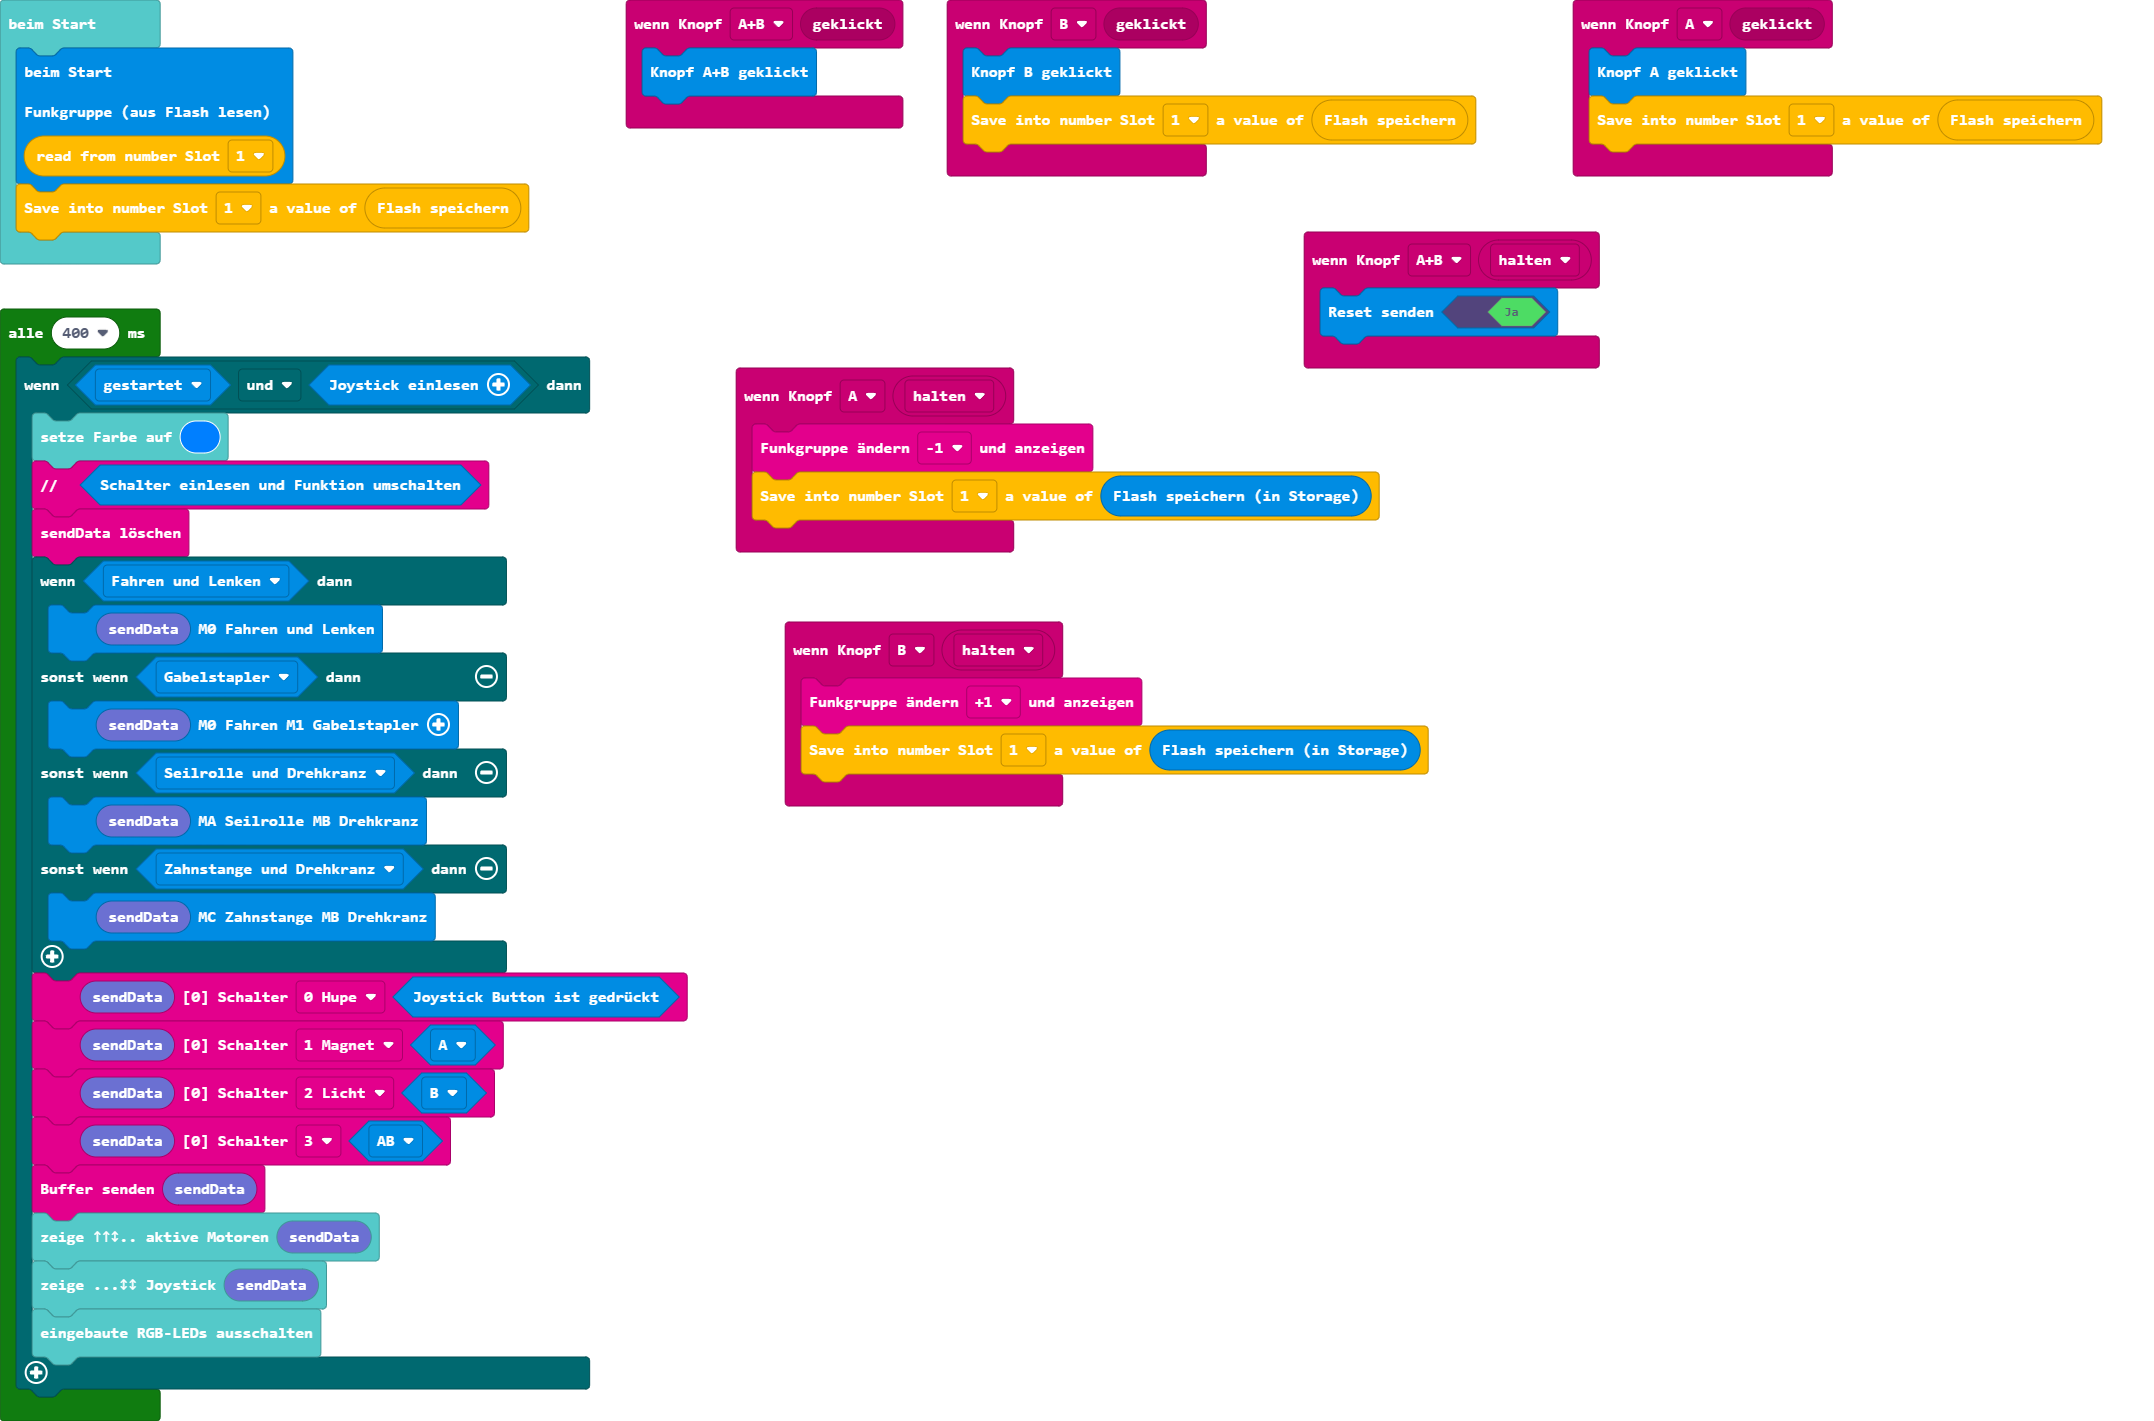
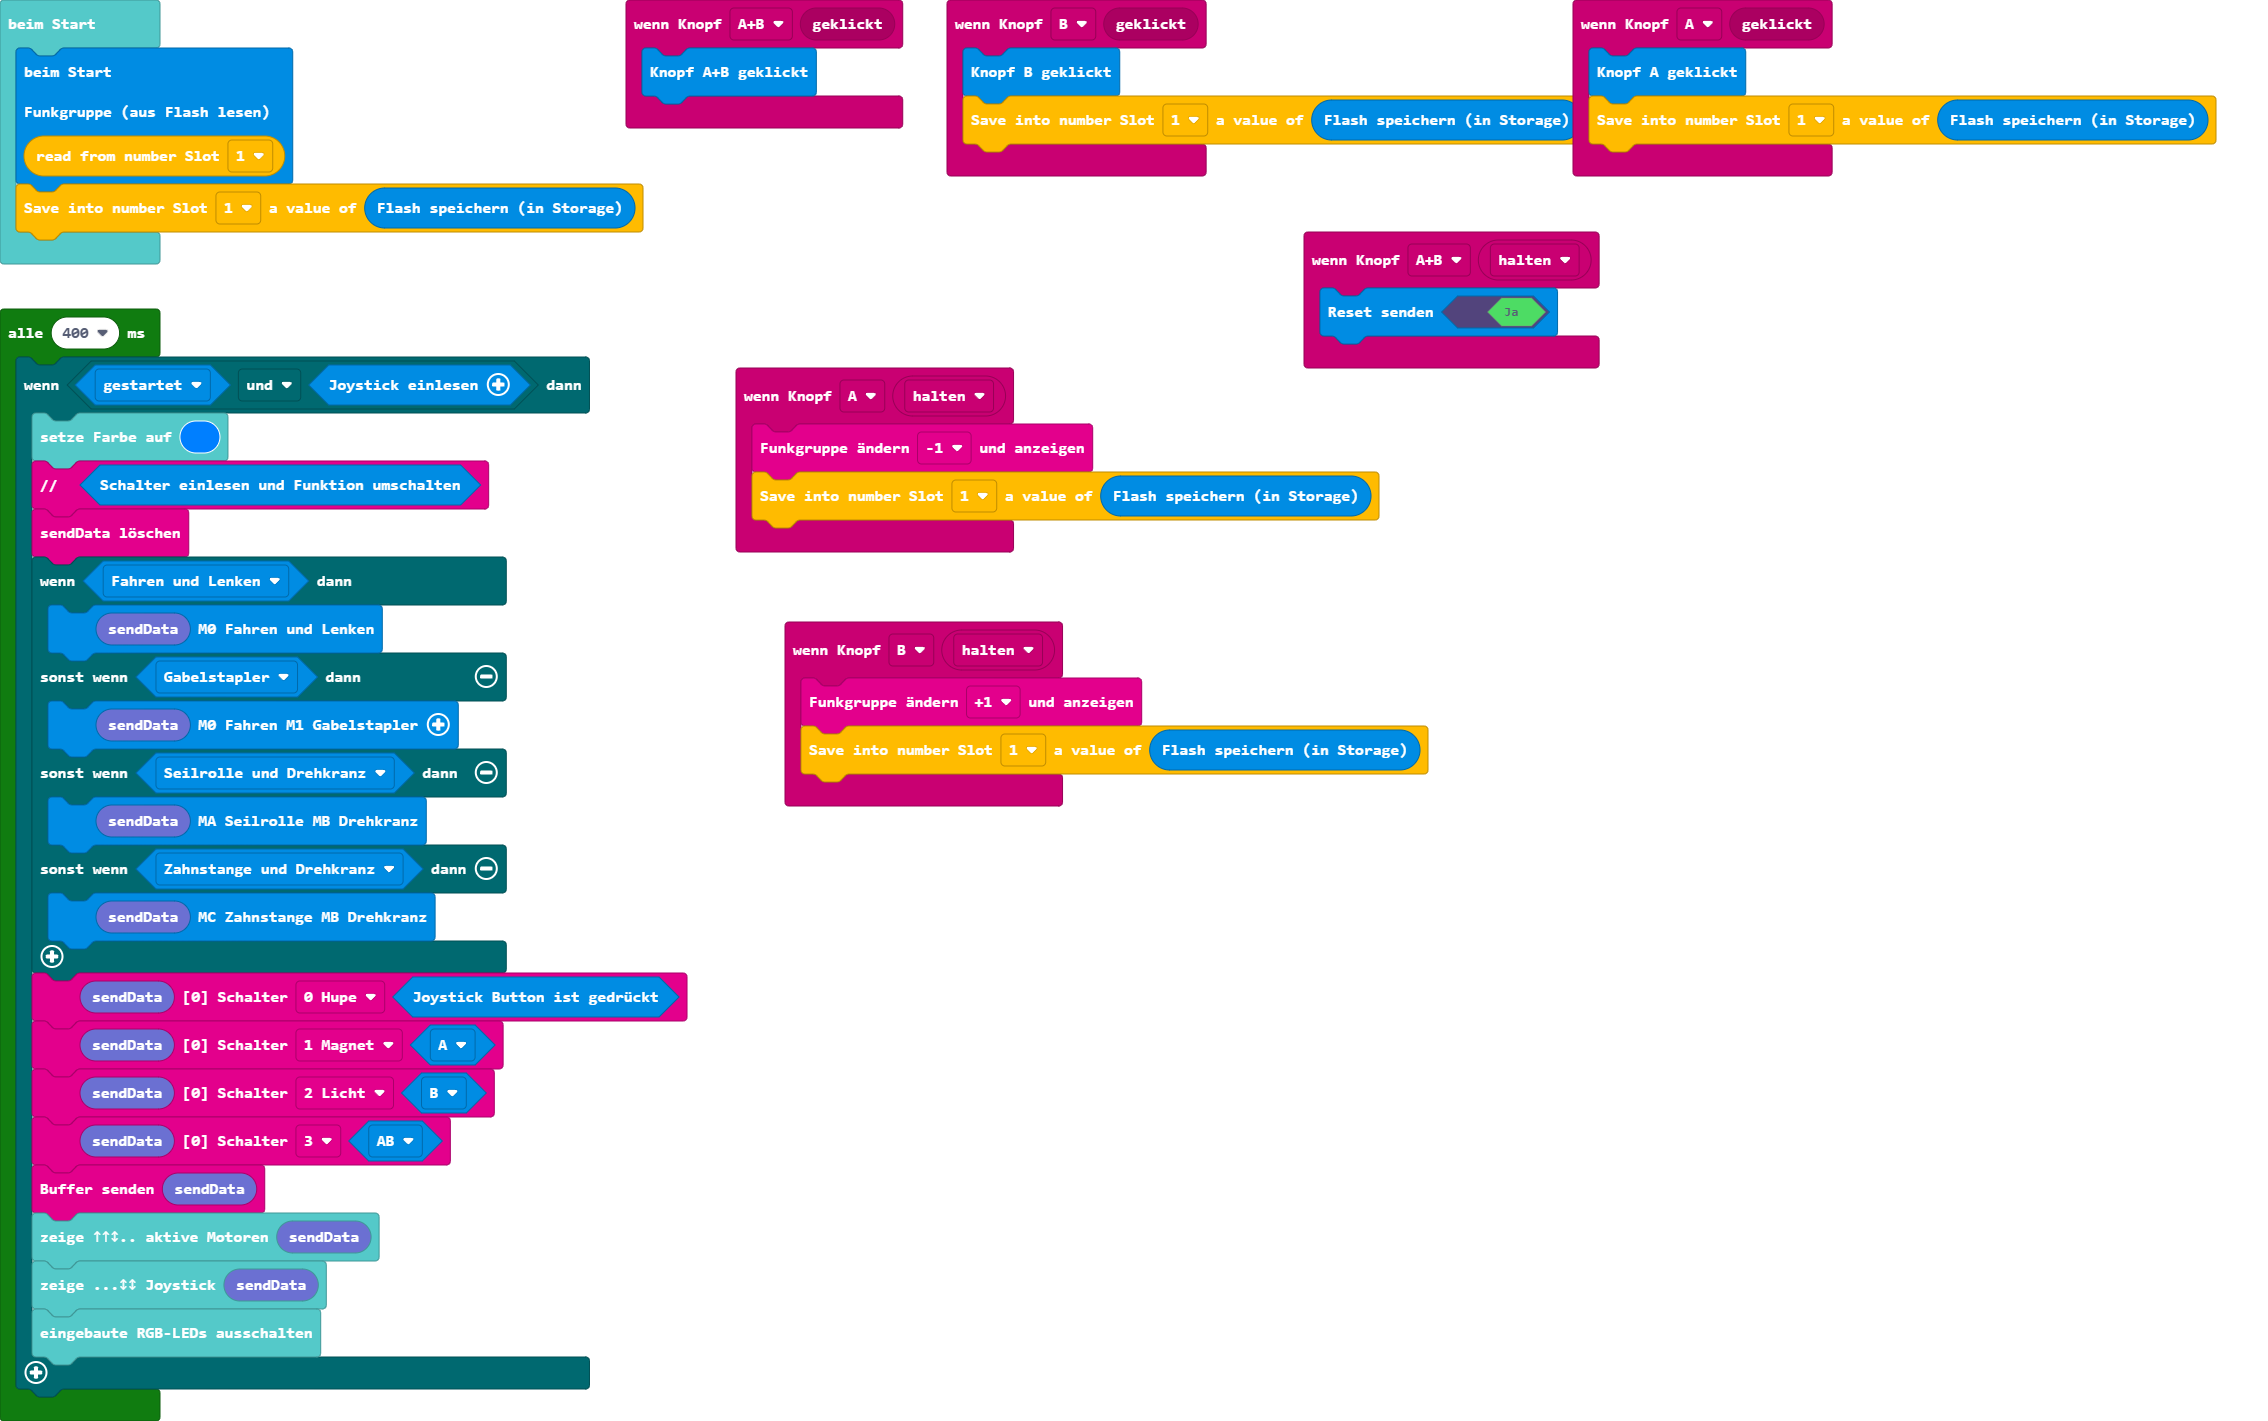
Aktualisiere main.blocks, main.ts

diff --git a/main.ts b/main.ts
@@ -1,13 +1,13 @@
 input.onButtonEvent(Button.A, input.buttonEventClick(), function () {
     sender.buttonA()
-    storage.putNumber(StorageSlots.s1, radio.storageBufferGet())
+    storage.putNumber(StorageSlots.s1, sender.storageBufferGet())
 })
 input.onButtonEvent(Button.AB, input.buttonEventClick(), function () {
     sender.buttonAB()
 })
 input.onButtonEvent(Button.B, input.buttonEventClick(), function () {
     sender.buttonB()
-    storage.putNumber(StorageSlots.s1, radio.storageBufferGet())
+    storage.putNumber(StorageSlots.s1, sender.storageBufferGet())
 })
 input.onButtonEvent(Button.A, ButtonEvent.Hold, function () {
     radio.setFunkgruppeButton(radio.eFunkgruppeButton.minus)
@@ -23,7 +23,7 @@ input.onButtonEvent(Button.AB, ButtonEvent.Hold, function () {
 sender.beimStart(
 storage.getNumber(StorageSlots.s1)
 )
-storage.putNumber(StorageSlots.s1, radio.storageBufferGet())
+storage.putNumber(StorageSlots.s1, sender.storageBufferGet())
 loops.everyInterval(400, function () {
     if (sender.isFunktion(sender.eFunktion.ng) && sender.joystickQwiic()) {
         basic.setLedColor(0x007fff)
